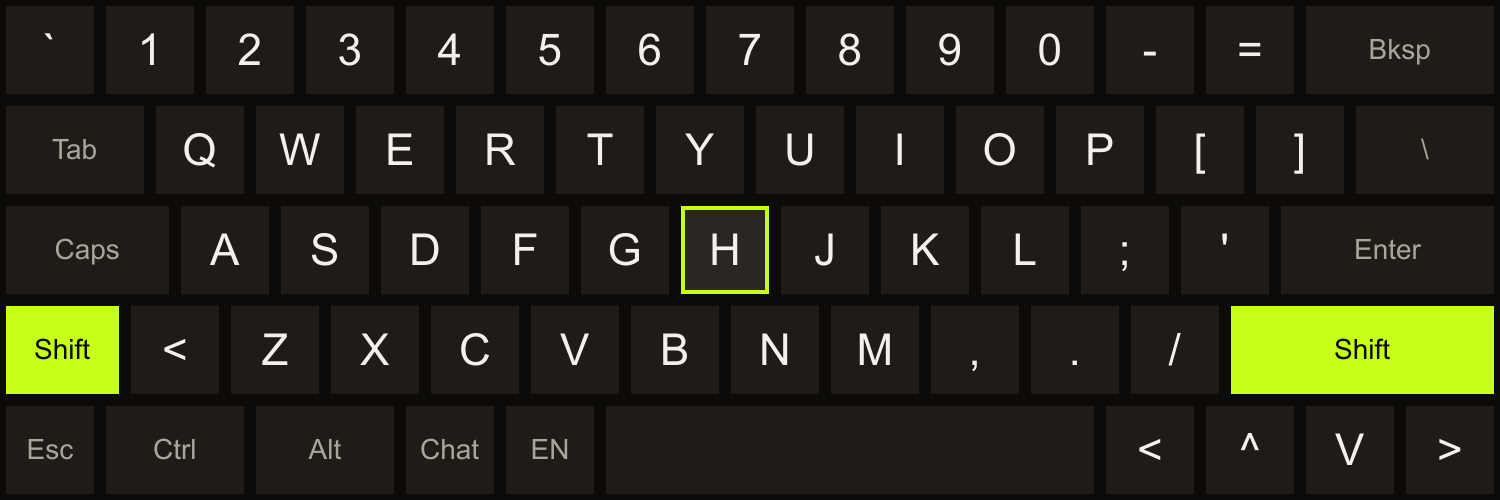
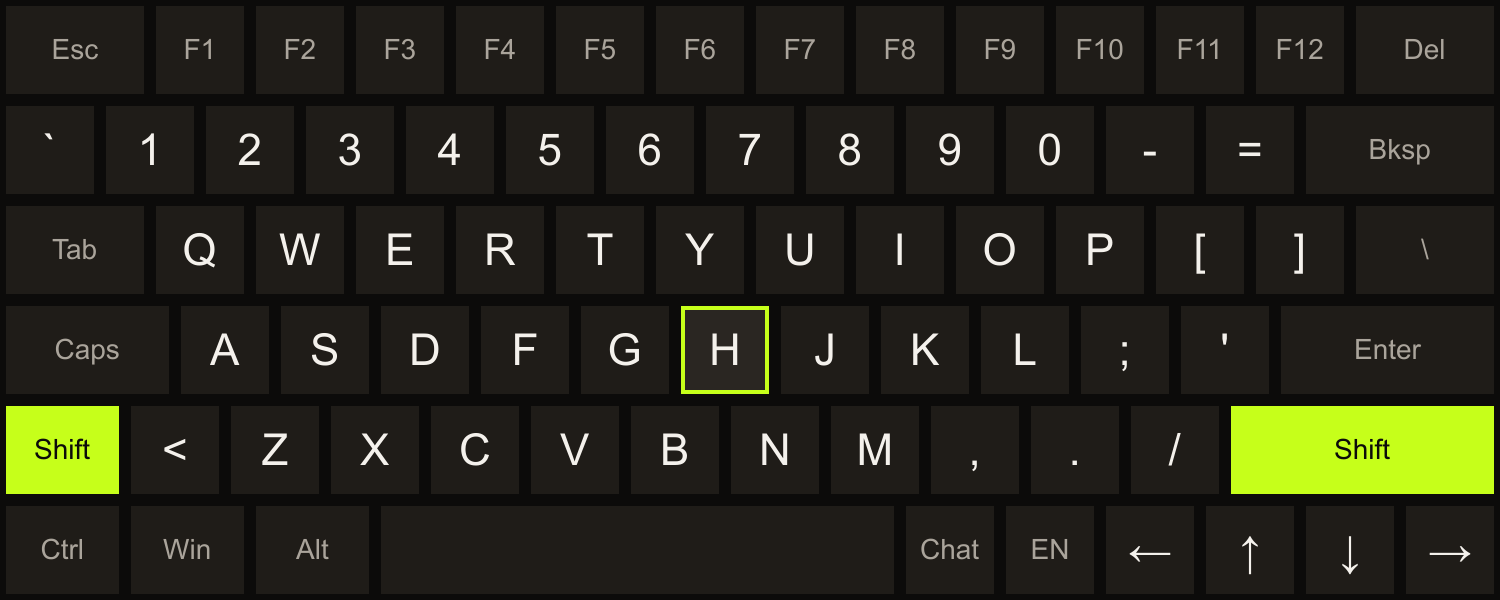
Keyboard: function row (Esc, F1-F12, Del), Win key (latch; Win twice opens Start), standard bottom row with arrow keys

diff --git a/packaging/brand/og.html b/packaging/brand/og.html
@@ -9,7 +9,7 @@ html,body{margin:0;width:1280px;height:640px;overflow:hidden;background:#0C0B0A;
 .s{position:absolute;left:66px;top:256px;font-size:26px;color:#AAA49B;width:620px;line-height:1.35}
 .b{position:absolute;right:56px;bottom:40px;width:420px;font-size:24px;line-height:1.4;color:#0C0B0A;background:#C6FF1A;padding:14px 18px;font-weight:500;box-sizing:border-box}
 .w{position:absolute;right:56px;top:44px;width:420px;border:1px solid #2A2622}
-.k{position:absolute;left:64px;bottom:40px;width:700px;border:1px solid #2A2622}
+.k{position:absolute;left:64px;bottom:36px;width:640px;border:1px solid #2A2622}
 </style></head><body>
 <div class="t">Your desktop<br>in VR. <em>Free.</em></div>
 <div class="s">Open-source SteamVR overlay: laser pointer, VR keyboard, VRChat chatbox, wrist watch.</div>

diff --git a/crates/core/src/keyboard.rs b/crates/core/src/keyboard.rs
@@ -18,6 +18,10 @@ pub const UP: u16 = EXT | 0x48;
 pub const LEFT: u16 = EXT | 0x4B;
 pub const RIGHT: u16 = EXT | 0x4D;
 pub const DOWN: u16 = EXT | 0x50;
+pub const DEL: u16 = EXT | 0x53;
+/// Windows key: a latch like Ctrl (Win + next key); tapped again while lit it presses Win alone (Start menu).
+pub const LWIN: u16 = EXT | 0x5B;
+pub const F1: u16 = 0x3B;
 /// Not a real key: toggles "send to VRChat chatbox" and is never sent to the OS.
 pub const CHAT: u16 = 0xF100;
 /// Not a real key: switches to the next installed input language; its face shows the current one.
@@ -41,7 +45,9 @@ const fn kw(sc: u16, w: f32, label: &'static str) -> KeyDef {
 pub const ROW_UNITS: f32 = 15.0;
 
 #[rustfmt::skip]
-pub static ROWS: [&[KeyDef]; 5] = [
+pub static ROWS: [&[KeyDef]; 6] = [
+    &[kw(ESC, 1.5, "Esc"), k(F1, "F1"), k(0x3C, "F2"), k(0x3D, "F3"), k(0x3E, "F4"), k(0x3F, "F5"), k(0x40, "F6"),
+      k(0x41, "F7"), k(0x42, "F8"), k(0x43, "F9"), k(0x44, "F10"), k(0x57, "F11"), k(0x58, "F12"), kw(DEL, 1.5, "Del")],
     &[k(0x29, "`"), k(0x02, "1"), k(0x03, "2"), k(0x04, "3"), k(0x05, "4"), k(0x06, "5"), k(0x07, "6"),
       k(0x08, "7"), k(0x09, "8"), k(0x0A, "9"), k(0x0B, "0"), k(0x0C, "-"), k(0x0D, "="), kw(BACKSPACE, 2.0, "Bksp")],
     &[kw(TAB, 1.5, "Tab"), k(0x10, "q"), k(0x11, "w"), k(0x12, "e"), k(0x13, "r"), k(0x14, "t"), k(0x15, "y"),
@@ -50,8 +56,8 @@ pub static ROWS: [&[KeyDef]; 5] = [
       k(0x24, "j"), k(0x25, "k"), k(0x26, "l"), k(0x27, ";"), k(0x28, "'"), kw(ENTER, 2.25, "Enter")],
     &[kw(LSHIFT, 1.25, "Shift"), k(0x56, "<"), k(0x2C, "z"), k(0x2D, "x"), k(0x2E, "c"), k(0x2F, "v"), k(0x30, "b"),
       k(0x31, "n"), k(0x32, "m"), k(0x33, ","), k(0x34, "."), k(0x35, "/"), kw(RSHIFT, 2.75, "Shift")],
-    &[k(ESC, "Esc"), kw(LCTRL, 1.5, "Ctrl"), kw(LALT, 1.5, "Alt"), k(CHAT, "Chat"), k(LANG, "Lang"), kw(SPACE, 5.0, " "),
-      k(LEFT, "<"), k(UP, "^"), k(DOWN, "v"), k(RIGHT, ">")],
+    &[kw(LCTRL, 1.25, "Ctrl"), kw(LWIN, 1.25, "Win"), kw(LALT, 1.25, "Alt"), kw(SPACE, 5.25, " "), k(CHAT, "Chat"),
+      k(LANG, "Lang"), k(LEFT, "←"), k(UP, "↑"), k(DOWN, "↓"), k(RIGHT, "→")],
 ];
 
 pub fn key_at(uv: [f32; 2]) -> Option<&'static KeyDef> {
@@ -87,13 +93,16 @@ pub fn key_for_label(label: &str) -> Option<&'static KeyDef> {
     ROWS.iter().flat_map(|r| r.iter()).find(|k| k.label == label)
 }
 
-const MODS: [u16; 3] = [LSHIFT, LCTRL, LALT];
+const MODS: [u16; 4] = [LSHIFT, LCTRL, LALT, LWIN];
+/// Win tapped while lit: a plain Win press (not a latch toggle).
+const PLAIN: u8 = 0x80;
 
 fn modifier_bit(sc: u16) -> Option<u8> {
     match sc {
         LSHIFT | RSHIFT => Some(1),
         LCTRL => Some(2),
         LALT => Some(4),
+        LWIN => Some(8),
         _ => None,
     }
 }
@@ -109,7 +118,7 @@ pub struct Keyboard {
 }
 
 impl Keyboard {
-    /// Bit 1 = Shift, 2 = Ctrl, 4 = Alt.
+    /// Bit 1 = Shift, 2 = Ctrl, 4 = Alt, 8 = Win.
     pub fn latched(&self) -> u8 {
         self.latched
     }
@@ -125,8 +134,20 @@ impl Keyboard {
             return 0;
         }
         if let Some(bit) = modifier_bit(sc) {
-            self.latched ^= bit;
-            return 0;
+            if !(sc == LWIN && self.latched & bit != 0) {
+                self.latched ^= bit;
+                return 0;
+            }
+            // Win, Win: open Start (Win pressed on its own, with whatever else is latched).
+            self.latched &= !bit;
+            let mods = std::mem::take(&mut self.latched);
+            for (i, m) in MODS.iter().enumerate() {
+                if mods & (1 << i) != 0 {
+                    out.push(Event::Key { scancode: *m, down: true });
+                }
+            }
+            out.push(Event::Key { scancode: sc, down: true });
+            return mods | PLAIN;
         }
         let mods = std::mem::take(&mut self.latched);
         for (i, m) in MODS.iter().enumerate() {
@@ -139,7 +160,7 @@ impl Keyboard {
     }
 
     pub fn release(&mut self, sc: u16, mods: u8, out: &mut Vec<Event>) {
-        if sc == CHAT || sc == LANG || modifier_bit(sc).is_some() {
+        if sc == CHAT || sc == LANG || (modifier_bit(sc).is_some() && mods & PLAIN == 0) {
             return;
         }
         out.push(Event::Key { scancode: sc, down: false });
@@ -161,6 +182,27 @@ mod tests {
             let units: f32 = row.iter().map(|k| k.w).sum();
             assert!((units - ROW_UNITS).abs() < 1e-4);
         }
+    }
+
+    #[test]
+    fn win_latches_and_win_win_opens_start() {
+        let mut kb = Keyboard::default();
+        let mut out = Vec::new();
+        assert_eq!(kb.press(LWIN, &mut out), 0);
+        assert_eq!(kb.latched(), 8);
+        let mods = kb.press(0x20, &mut out); // Win + D
+        kb.release(0x20, mods, &mut out);
+        let keys: Vec<(u16, bool)> = out
+            .iter()
+            .filter_map(|e| if let Event::Key { scancode, down } = *e { Some((scancode, down)) } else { None })
+            .collect();
+        assert_eq!(keys, vec![(LWIN, true), (0x20, true), (0x20, false), (LWIN, false)]);
+        out.clear();
+        kb.press(LWIN, &mut out);
+        let mods = kb.press(LWIN, &mut out);
+        kb.release(LWIN, mods, &mut out);
+        assert_eq!(kb.latched(), 0);
+        assert_eq!(out, vec![Event::Key { scancode: LWIN, down: true }, Event::Key { scancode: LWIN, down: false }]);
     }
 
     #[test]

diff --git a/crates/app/src/run.rs b/crates/app/src/run.rs
@@ -6,7 +6,7 @@ use dvr_capture_win::{Capture, Frame, Monitor};
 use dvr_core::backend::VrBackend;
 use dvr_core::chat::{ChatAction, ChatLine};
 use dvr_core::engine::{Engine, Event, FrameInput, MouseButton};
-use dvr_core::keyboard::{CAPS, CHAT, LALT, LANG, LCTRL, LSHIFT, ROWS, RSHIFT, SPACE};
+use dvr_core::keyboard::{CAPS, CHAT, LALT, LANG, LCTRL, LSHIFT, LWIN, ROWS, RSHIFT, SPACE};
 use dvr_core::math::{Pose, Quat, Vec3};
 use dvr_core::panel::{DEFAULT_WIDTH_M, Hand, MIN_WIDTH_M, Panel, PixelRect, Source, gaze_visibility};
 use dvr_core::raster;
@@ -672,6 +672,7 @@ pub fn run() -> Result<(), String> {
                     || (matches!(sc, LSHIFT | RSHIFT) && latched & 1 != 0)
                     || (sc == LCTRL && latched & 2 != 0)
                     || (sc == LALT && latched & 4 != 0)
+                    || (sc == LWIN && latched & 8 != 0)
             };
             let chat_line = session.state.chatbox.then_some(chat.text());
             key_faces(&mut faces, &labels, chat_line, lit, &key_hover);

diff --git a/crates/ui/src/keyboard.rs b/crates/ui/src/keyboard.rs
@@ -10,7 +10,7 @@ slint::slint! {
     export component KeyboardView inherits Window {
         in property <[KeyView]> keys;
         width: 1500px;
-        height: 500px;
+        height: 600px;
         background: #0C0B0A;
         for key in root.keys : Rectangle {
             x: key.x + 6px;
@@ -31,7 +31,7 @@ slint::slint! {
 }
 
 /// 100 px per key unit.
-pub const KEYBOARD_SIZE: (u32, u32) = (1500, 500);
+pub const KEYBOARD_SIZE: (u32, u32) = (1500, 600);
 const UNIT: f32 = 100.0;
 
 /// What one key shows, in `dvr_core::keyboard::ROWS` order.

diff --git a/CHANGELOG.md b/CHANGELOG.md
@@ -28,7 +28,8 @@ First public early-access release (Windows).
 - VRChat chatbox Chat mode over OSC and "share now playing".
 - Minimal wrist watch (time, batteries) that shows only while you look at it; pointing at it opens Menu,
   Keyboard, Hide all, media controls and fps / load / own cost. Each part can be switched off.
-- Keyboard language key cycling the installed Windows input languages.
+- Keyboard language key cycling the installed Windows input languages; function row (Esc, F1–F12, Del), Win key
+  (Win + key, or Win twice for Start) and arrow keys.
 - Settings: pointing hand, start with SteamVR, vibration, curved screens by default, update check.
 - XSOverlay notification API compatibility (UDP 42069) and XSOverlay settings import on first run.
 - Four-step first run, menu (Panels, Keyboard, Wrist, Settings), tray icon, start with SteamVR.
